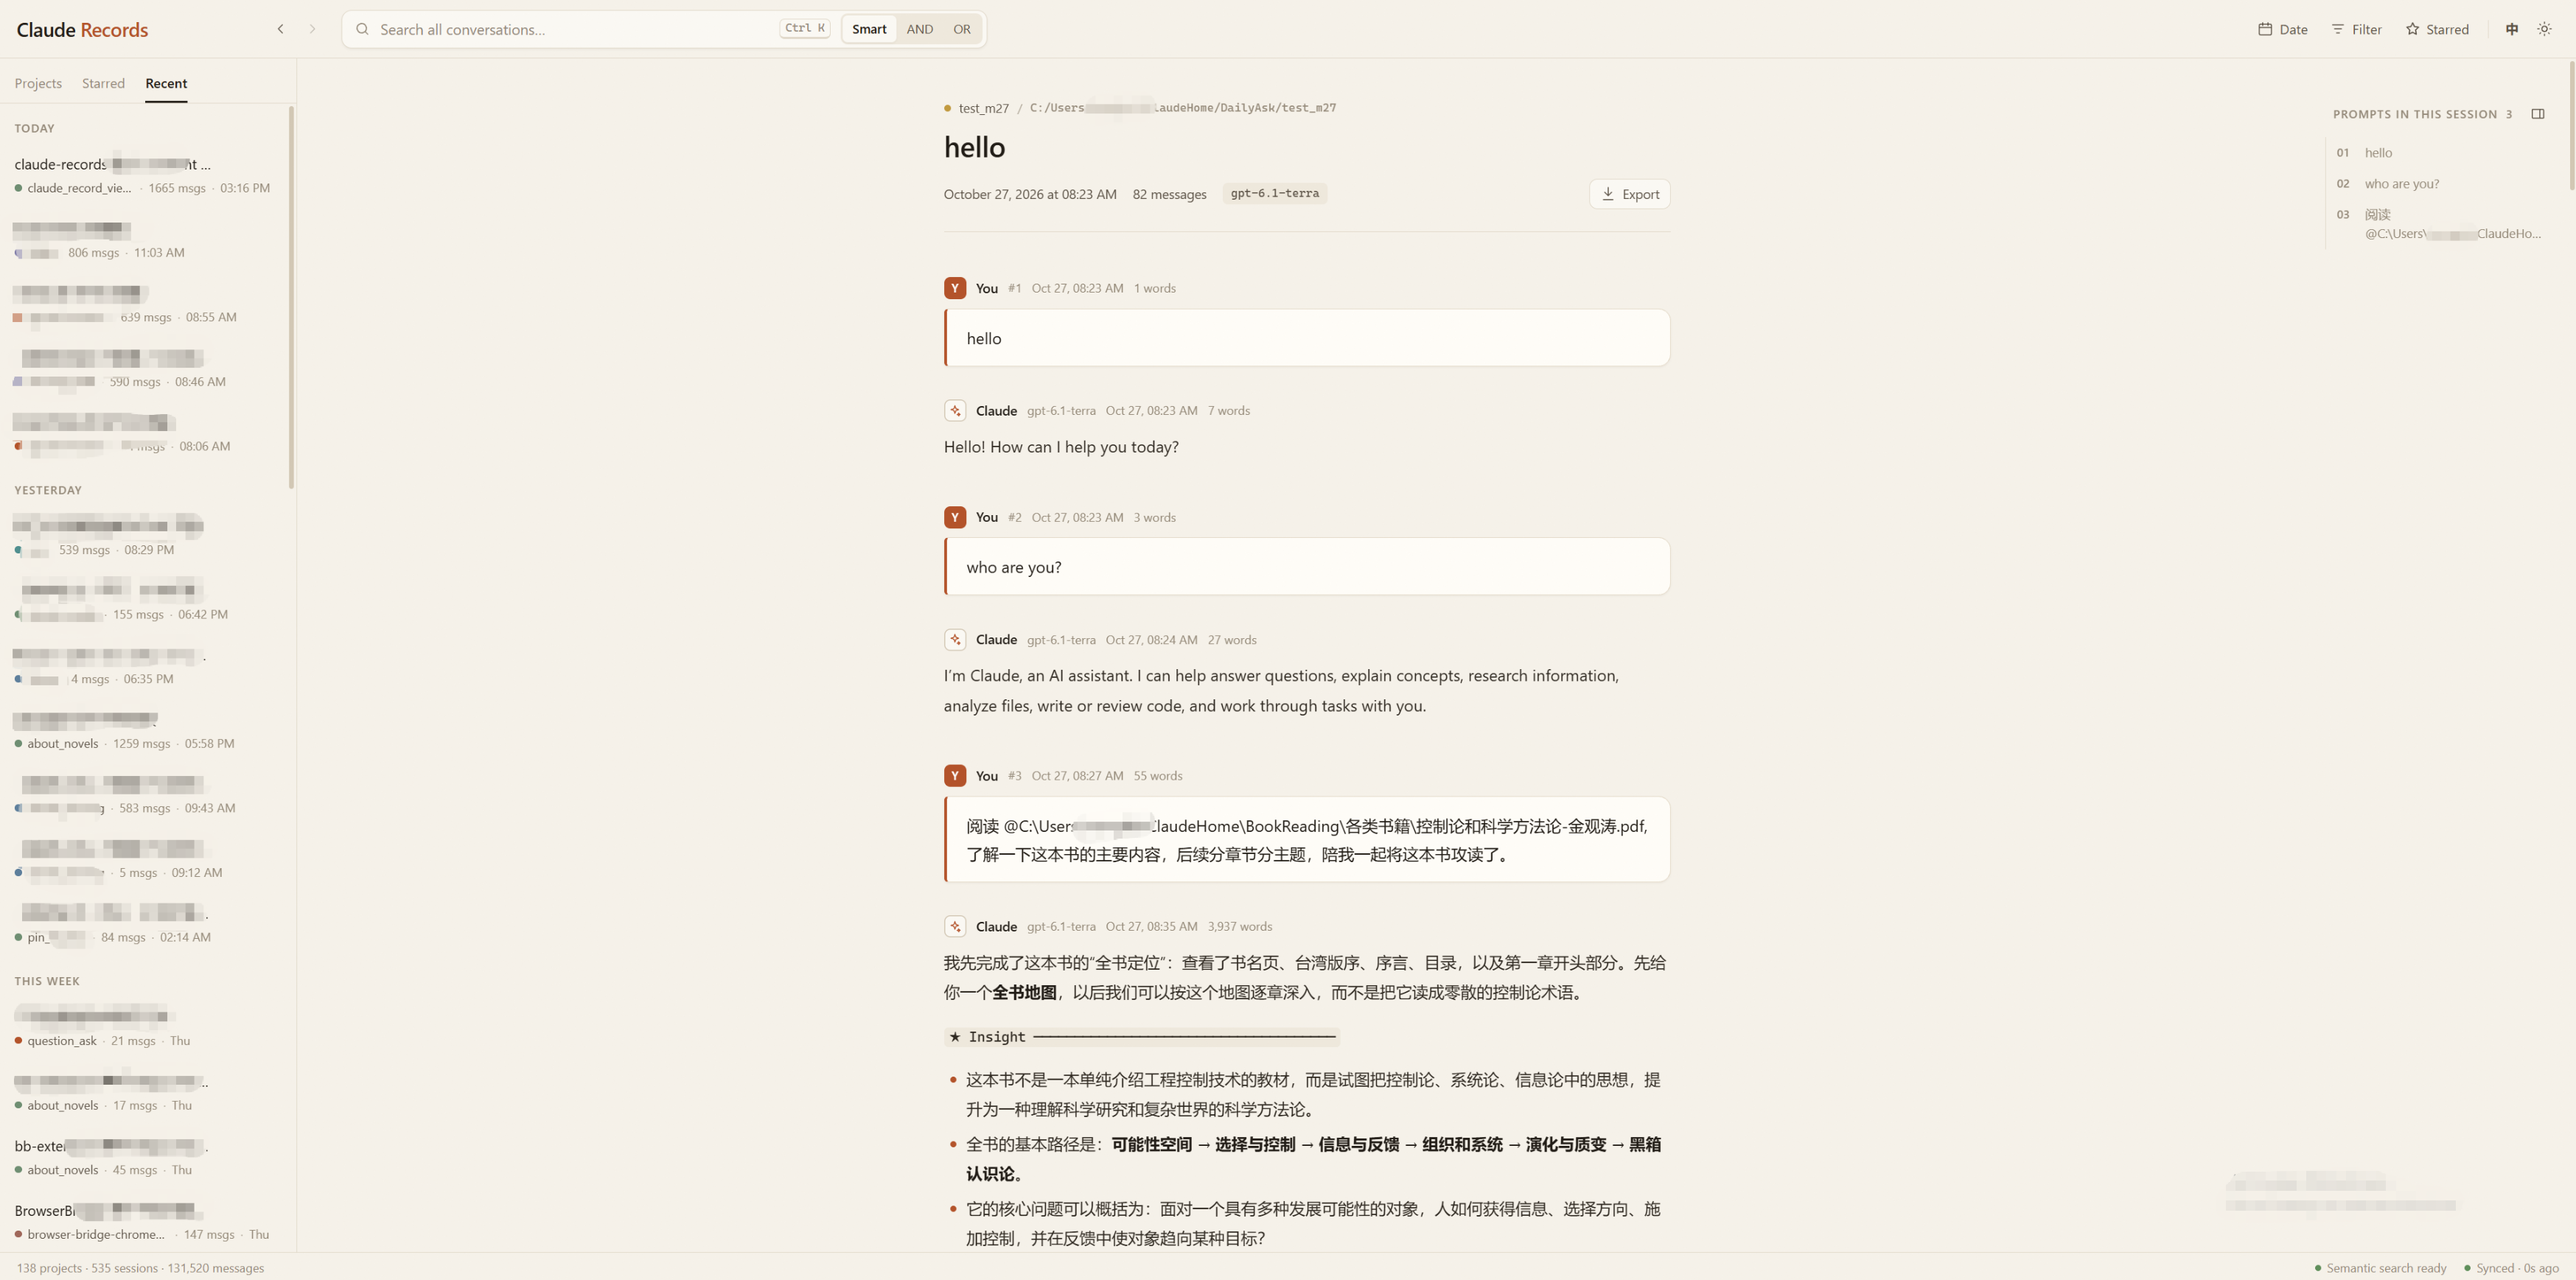
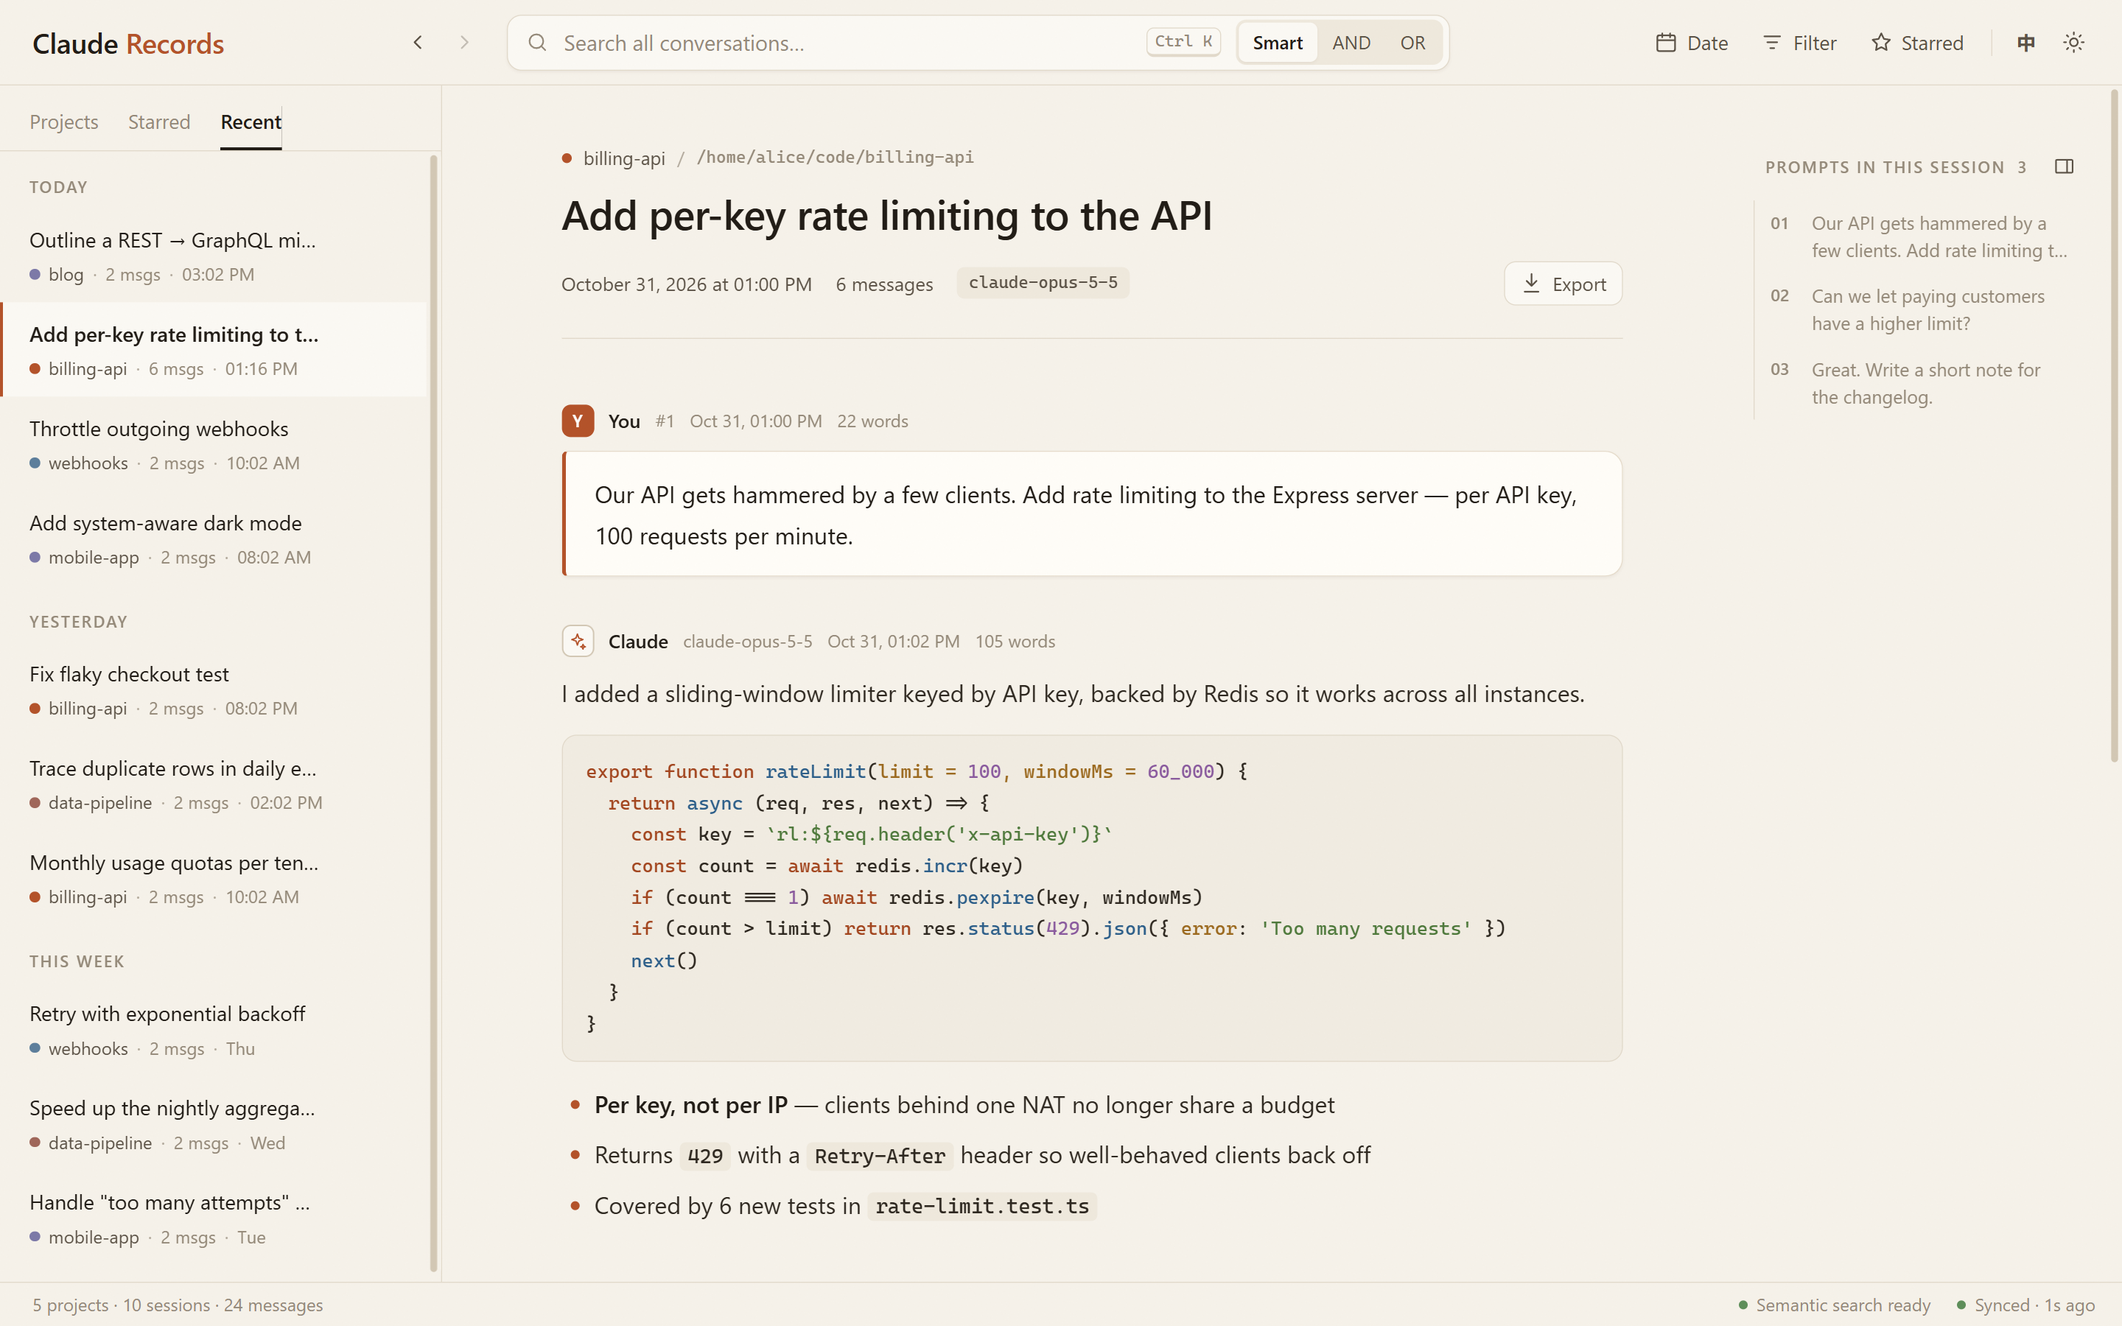
docs: demo-data screenshots and social preview; cleaner search snippets
- README screenshots now use fictional demo transcripts (no redaction needed)
- add docs/images/social-preview.png (1280x640) for the GitHub social card
- search snippets and prompt/reply previews are rendered as plain text
  instead of raw Markdown (**bold**, code fences, links)
- partial-word highlights no longer split the word apart

diff --git a/frontend/src/App.css b/frontend/src/App.css
@@ -823,7 +823,13 @@
   overflow: hidden;
   overflow-wrap: anywhere;
 }
-.search-result-snippet mark { background: var(--mark-bg); color: var(--mark-ink); border-radius: 3px; padding: 0 2px; }
+.search-result-snippet mark {
+  background: var(--mark-bg);
+  color: var(--mark-ink);
+  border-radius: 2px;
+  /* shadow instead of padding: highlighting part of a word must not split it apart */
+  box-shadow: 0 0 0 1.5px var(--mark-bg);
+}
 
 .search-result-context {
   display: flex;

diff --git a/backend/search.py b/backend/search.py
@@ -6,6 +6,23 @@ from backend import embedding
 from backend.models import get_db, format_command_message
 
 
+_MD_PATTERNS = [
+    (re.compile(r'```[^\n]*'), ' '),                   # code fence markers (+ language)
+    (re.compile(r'!\[[^\]]*\]\([^)]*\)'), ' '),        # images
+    (re.compile(r'\[([^\]]*)\]\([^)]*\)'), r'\1'),     # links -> their text
+    (re.compile(r'(\*\*|__|~~|`)'), ''),               # emphasis / inline code marks
+    (re.compile(r'^\s{0,3}(#{1,6}|>|[-*+]|\d+\.)\s+', re.M), ''),  # headings, quotes, list marks
+]
+
+
+def plain_text(markdown: str) -> str:
+    """Markdown -> readable plain text for one-line previews and snippets."""
+    text = markdown or ''
+    for pattern, repl in _MD_PATTERNS:
+        text = pattern.sub(repl, text)
+    return re.sub(r'\s+', ' ', text).strip()
+
+
 def segment_query(query: str) -> str:
     """Segment a search query with jieba."""
     return ' '.join(jieba.cut(query))
@@ -227,7 +244,7 @@ def _search_keyword(conn, query, mode, where, params, project_id, page, page_siz
         ORDER BY rank
         LIMIT ? OFFSET ?""", params + [page_size, (page - 1) * page_size]).fetchall()
 
-    results = [_build_result(conn, row, make_snippet(format_command_message(row['content']), query),
+    results = [_build_result(conn, row, make_snippet(plain_text(format_command_message(row['content'])), query),
                              'keyword') for row in rows]
     return {'total': total, 'results': results, 'facets': facets}
 
@@ -330,10 +347,10 @@ def _search_hybrid(conn, query, where, params, project_id, page, page_size) -> d
             continue
         content = format_command_message(row['content'])
         if mid in keyword_set:
-            snippet = make_snippet(content, query)
+            snippet = make_snippet(plain_text(content), query)
             match = 'both' if mid in semantic else 'keyword'
         else:
-            snippet = html.escape(_semantic_snippet(content, semantic[mid]))
+            snippet = html.escape(plain_text(_semantic_snippet(content, semantic[mid])))
             match = 'semantic'
         results.append(_build_result(conn, row, snippet, match))
     return {'total': len(fused), 'results': results, 'facets': facets, 'semantic': True}
@@ -354,7 +371,7 @@ def resolve_context(conn, row) -> dict | None:
                 break
             if parent_row['type'] == 'user':
                 return {
-                    'question': parent_row['content'][:200] if parent_row['content'] else None,
+                    'question': plain_text(parent_row['content'])[:200] if parent_row['content'] else None,
                     'answer_preview': None,
                 }
             parent = parent_row['parent_uuid']
@@ -369,7 +386,7 @@ def resolve_context(conn, row) -> dict | None:
         if child:
             return {
                 'question': None,
-                'answer_preview': child['content'][:200] if child['content'] else None,
+                'answer_preview': plain_text(child['content'])[:200] if child['content'] else None,
             }
 
     return None
